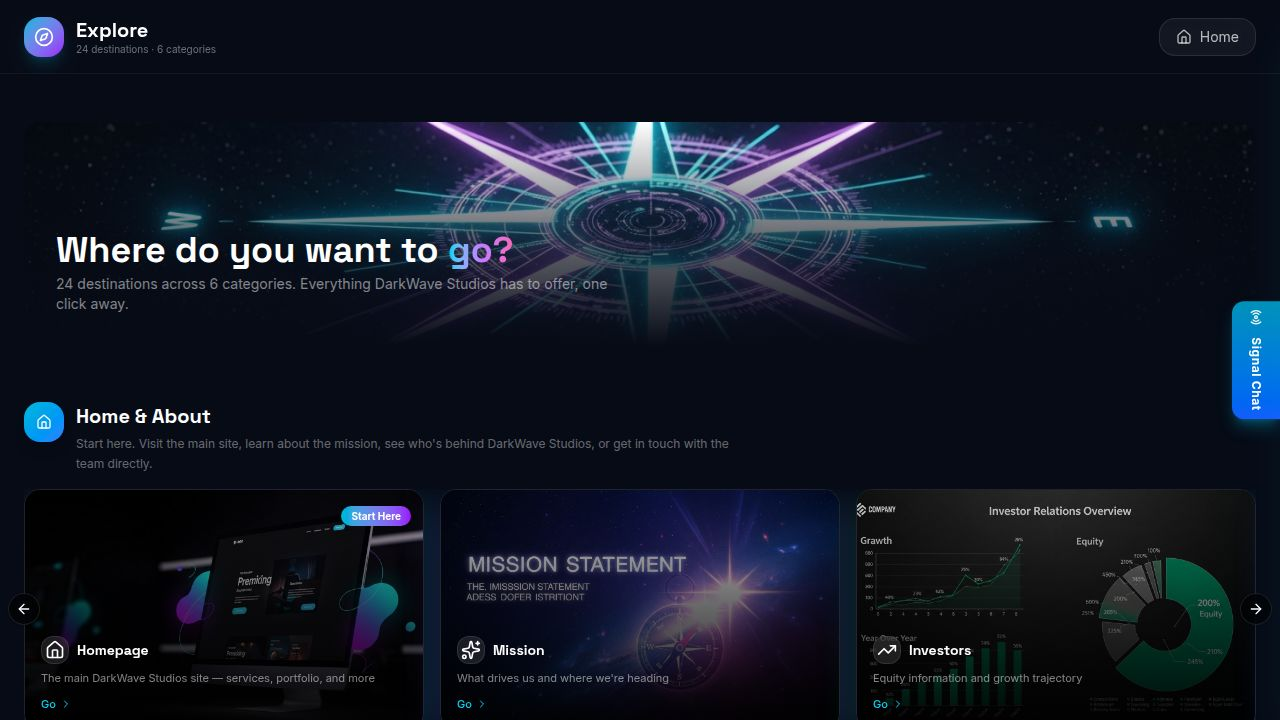
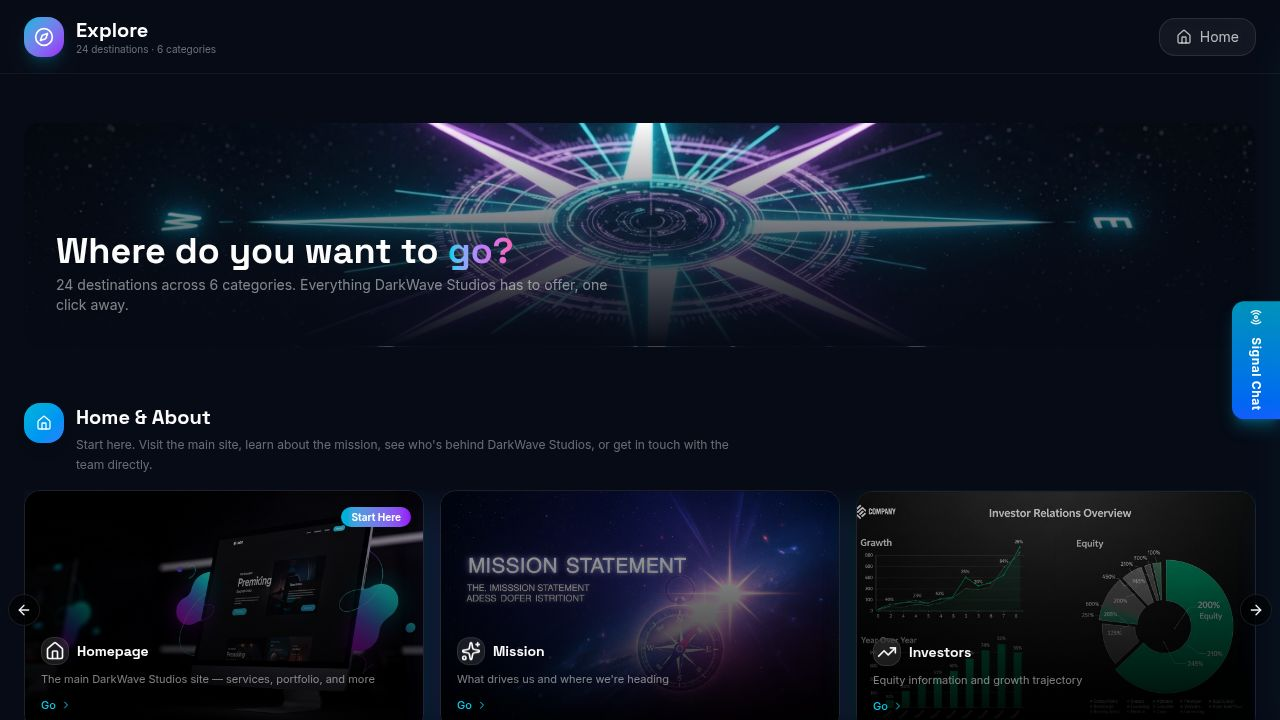
Update ecosystem to reflect 26 connected applications
Adds two new applications ("Guardian Screener" and "Guardian Agent Scanner") to the ecosystem, updating all relevant counts and descriptions from 24 to 26 across various components and pages.

Replit-Commit-Author: Agent
Replit-Commit-Session-Id: fd631e83-bc81-4f88-98c7-1c24e1e757e1
Replit-Commit-Checkpoint-Type: intermediate_checkpoint
Replit-Commit-Event-Id: 8a837312-0393-47f4-bbfb-f8238d8c0c9d
Replit-Commit-Screenshot-Url: https://storage.googleapis.com/screenshot-production-us-central1/58d7295e-4eca-40d3-ac5d-67adee4e19c6/fd631e83-bc81-4f88-98c7-1c24e1e757e1/e12io3n
Replit-Helium-Checkpoint-Created: true

diff --git a/client/src/pages/Developers.tsx b/client/src/pages/Developers.tsx
@@ -410,9 +410,9 @@ export default function Developers() {
                 </div>
                 <div className="grid sm:grid-cols-2 lg:grid-cols-3 gap-4">
                   {[
-                    { name: "TechCrunch", url: "https://techcrunch.com/submit-a-tip/", type: "Tip submission form", pitch: "Full-stack ecosystem with 24 production apps and 1.97M+ lines of code", icon: Zap },
+                    { name: "TechCrunch", url: "https://techcrunch.com/submit-a-tip/", type: "Tip submission form", pitch: "Full-stack ecosystem with 26 production apps and 1.97M+ lines of code", icon: Zap },
                     { name: "Product Hunt", url: "https://www.producthunt.com/posts/new", type: "Product launch platform", pitch: "Launch Trust Layer Hub, Guardian AI, or Pulse individually for maximum visibility", icon: Target },
-                    { name: "Hacker News (Show HN)", url: "https://news.ycombinator.com/submit", type: "Community submission", pitch: "Technical deep-dive on building a 24-app ecosystem as a solo developer", icon: Terminal },
+                    { name: "Hacker News (Show HN)", url: "https://news.ycombinator.com/submit", type: "Community submission", pitch: "Technical deep-dive on building a 26-app ecosystem as a solo developer", icon: Terminal },
                     { name: "IndieHackers", url: "https://www.indiehackers.com", type: "Community + interviews", pitch: "Indie builder story — solo dev building enterprise-scale ecosystem", icon: Users },
                     { name: "BetaList", url: "https://betalist.com/submit", type: "Startup directory", pitch: "Submit new products for early adopter exposure", icon: Sparkles },
                     { name: "Dev.to", url: "https://dev.to", type: "Developer community", pitch: "Technical articles on architecture, Trust Layer, widget marketplace patterns", icon: Code2 },
@@ -444,7 +444,7 @@ export default function Developers() {
                   {[
                     { name: "CoinDesk", url: "https://www.coindesk.com/contact/", type: "Press inquiries", pitch: "Trust Layer L1 blockchain, Guardian AI agent certification, Signal digital asset", icon: Shield },
                     { name: "The Block", url: "https://www.theblock.co/contact", type: "News tips", pitch: "First AI agent certification system for crypto — Guardian AI + Trust Shield", icon: Lock },
-                    { name: "Decrypt", url: "https://decrypt.co/contact", type: "Story pitches", pitch: "Real-world blockchain utility — 24 apps verified through Trust Layer", icon: Boxes },
+                    { name: "Decrypt", url: "https://decrypt.co/contact", type: "Story pitches", pitch: "Real-world blockchain utility — 26 apps verified through Trust Layer", icon: Boxes },
                     { name: "CoinTelegraph", url: "https://cointelegraph.com/press-releases", type: "Press releases", pitch: "Proof-of-Authority L1 with DeFi, NFT marketplace, DAO governance", icon: Globe },
                     { name: "Blockchain News", url: "https://www.the-blockchain.com/submit-press-release/", type: "Press release submission", pitch: "Trust Layer ecosystem — wallet, DEX, bridge, staking, explorer", icon: Zap },
                     { name: "NFT Now", url: "https://nftnow.com", type: "NFT/digital asset coverage", pitch: "Signal asset presale, blockchain-verified widget marketplace", icon: Sparkles },
@@ -506,7 +506,7 @@ export default function Developers() {
                 </div>
                 <div className="grid sm:grid-cols-2 lg:grid-cols-3 gap-4">
                   {[
-                    { name: "SaaStr", url: "https://www.saastr.com", type: "SaaS community + events", pitch: "24-app ecosystem with widget marketplace, subscription model, and AI credits system", icon: TrendingUp },
+                    { name: "SaaStr", url: "https://www.saastr.com", type: "SaaS community + events", pitch: "26-app ecosystem with widget marketplace, subscription model, and AI credits system", icon: TrendingUp },
                     { name: "G2", url: "https://www.g2.com/products/new", type: "Software reviews", pitch: "List PaintPros, ORBIT, and individual products for verified reviews", icon: BarChart3 },
                     { name: "Capterra", url: "https://www.capterra.com/vendors/sign-up", type: "Software directory", pitch: "List trade service tools, staffing software, and real estate platforms", icon: Target },
                     { name: "AppSumo", url: "https://sell.appsumo.com", type: "Lifetime deal marketplace", pitch: "Trust Layer Hub widgets or Pulse API access as a limited-time deal", icon: Zap },
@@ -540,7 +540,7 @@ export default function Developers() {
                       <div className="w-5 h-5 rounded-full bg-primary/20 flex items-center justify-center flex-shrink-0 mt-0.5">
                         <span className="text-[10px] font-bold text-primary">1</span>
                       </div>
-                      <p className="text-sm text-muted-foreground">Lead with the story — solo developer building a 24-app, 1.97M+ line ecosystem is compelling and rare</p>
+                      <p className="text-sm text-muted-foreground">Lead with the story — solo developer building a 26-app, 1.97M+ line ecosystem is compelling and rare</p>
                     </div>
                     <div className="flex items-start gap-2">
                       <div className="w-5 h-5 rounded-full bg-primary/20 flex items-center justify-center flex-shrink-0 mt-0.5">

diff --git a/client/src/pages/Projects.tsx b/client/src/pages/Projects.tsx
@@ -253,7 +253,7 @@ const projects = [
   {
     id: 21,
     title: "Signal Chat",
-    description: "Cross-app community messaging platform for the Trust Layer ecosystem. Real-time WebSocket chat, JWT SSO authentication, channel-based conversations, invite system, and user presence. The social backbone connecting all 24 ecosystem apps.",
+    description: "Cross-app community messaging platform for the Trust Layer ecosystem. Real-time WebSocket chat, JWT SSO authentication, channel-based conversations, invite system, and user presence. The social backbone connecting all 26 ecosystem apps.",
     tech: ["WebSocket", "JWT SSO", "Real-time", "Community"],
     image: signalChatImg,
     gradient: "from-purple-500/20 to-pink-600/20",
@@ -269,6 +269,26 @@ const projects = [
     gradient: "from-violet-500/20 to-purple-600/20",
     url: "https://thevoid.replit.app",
     category: "Wellness"
+  },
+  {
+    id: 26,
+    title: "Guardian Screener",
+    description: "AI-powered DEX screener built for traders who refuse to fly blind. Real-time monitoring across all major decentralized exchanges with smart pattern detection, predictive analytics, rug pull and honeypot risk detection, whale concentration tracking, liquidity lock verification, and 24/7 security alerts. Multi-chain coverage across Solana, Ethereum, Base, BSC, Arbitrum, Polygon, and DarkWave. Part of the dwsc.io codebase.",
+    tech: ["AI Analytics", "Multi-Chain", "Real-time", "PWA"],
+    image: "/projects/guardian-screener.png",
+    gradient: "from-cyan-500/20 to-blue-600/20",
+    url: "https://dwsc.io/guardian-shield",
+    category: "Trading"
+  },
+  {
+    id: 27,
+    title: "Guardian Agent Scanner",
+    description: "AI-powered scanning and analysis engine that evaluates, verifies, and scores autonomous AI agents operating across 13+ blockchain networks. Guardian Score safety ratings, real-time WebSocket data feeds, ML-powered prediction engine, contract address lookup, honeypot and freeze authority detection, whale analysis, quick-trade panel, and category filtering. Part of the dwsc.io codebase.",
+    tech: ["AI Security", "WebSocket", "ML Predictions", "PWA"],
+    image: "/projects/guardian-agent-scanner.png",
+    gradient: "from-cyan-500/20 to-purple-600/20",
+    url: "https://dwsc.io/guardian-scanner",
+    category: "Security"
   }
 ];
 
@@ -276,8 +296,8 @@ export default function Projects() {
   return (
     <div className="min-h-screen bg-background text-foreground">
       <SEOHead
-        title="Portfolio - 24 Web Applications & Ecosystem"
-        description="Explore 24 web applications built by DarkWave Studios. From AI trading platforms to staffing systems, venue operations to blockchain infrastructure - see our work in action."
+        title="Portfolio - 26 Web Applications & Ecosystem"
+        description="Explore 26 web applications built by DarkWave Studios. From AI trading platforms to staffing systems, venue operations to blockchain infrastructure - see our work in action."
         keywords="web development portfolio, live web apps, case studies, AI applications, e-commerce development, SaaS examples, blockchain apps"
         type="website"
         url="https://darkwavestudios.com/projects"
@@ -316,7 +336,7 @@ export default function Projects() {
             Our <span className="gradient-text">Ecosystem</span>
           </h1>
           <p className="text-muted-foreground text-lg max-w-2xl mx-auto" data-testid="text-projects-subtitle">
-            24 live applications powering real businesses. From AI trading platforms to staffing systems, venue operations to blockchain infrastructure.
+            26 live applications powering real businesses. From AI trading platforms to staffing systems, venue operations to blockchain infrastructure.
           </p>
         </div>
 

diff --git a/client/src/pages/Ecosystem.tsx b/client/src/pages/Ecosystem.tsx
@@ -236,6 +236,24 @@ const ecosystemApps: EcosystemApp[] = [
     image: "/projects/the-void.png",
     url: "https://thevoid.replit.app",
     category: "health"
+  },
+  {
+    id: "guardian-screener",
+    name: "Guardian Screener",
+    tagline: "See the Market Before It Sees You",
+    description: "AI-powered DEX screener with real-time monitoring across all major decentralized exchanges. Smart pattern detection, predictive analytics, rug pull and honeypot risk detection, whale concentration tracking, liquidity lock verification, and 24/7 security alerts. Multi-chain coverage across Solana, Ethereum, Base, BSC, Arbitrum, Polygon, and DarkWave. Installable PWA. Part of the dwsc.io codebase.",
+    image: "/projects/guardian-screener.png",
+    url: "https://dwsc.io/guardian-shield",
+    category: "trading"
+  },
+  {
+    id: "guardian-agent-scanner",
+    name: "Guardian Agent Scanner",
+    tagline: "Trust Scores for AI Agents",
+    description: "AI-powered scanning engine that evaluates, verifies, and scores autonomous AI agents across 13+ blockchains. Guardian Score safety ratings, real-time WebSocket feeds, ML-powered predictions, contract address lookup, honeypot and freeze authority detection, whale analysis, quick-trade panel, and category filtering. Installable PWA. Part of the dwsc.io codebase.",
+    image: "/projects/guardian-agent-scanner.png",
+    url: "https://dwsc.io/guardian-scanner",
+    category: "security"
   }
 ];
 
@@ -360,7 +378,7 @@ export default function Ecosystem() {
     <div className="min-h-screen bg-background text-foreground overflow-x-hidden">
       <SEOHead
         title="Ecosystem - DarkWave Studios"
-        description="Explore the complete DarkWave ecosystem. 24 connected applications across 12 production builds spanning trading, business operations, trade services, gaming, and more. Over 1.97 million lines of code."
+        description="Explore the complete DarkWave ecosystem. 26 connected applications across 12 production builds spanning trading, business operations, trade services, gaming, and more. Over 1.97 million lines of code."
         keywords="DarkWave ecosystem, trust layer, blockchain apps, trading platforms, business software"
       />
       <BreadcrumbSchema

diff --git a/client/src/pages/EcosystemMetrics.tsx b/client/src/pages/EcosystemMetrics.tsx
@@ -436,6 +436,32 @@ const ecosystemMetrics: AppMetric[] = [
     gradient: "from-violet-500 to-purple-500",
     status: "Production",
   },
+  {
+    id: "guardian-screener",
+    name: "Guardian Screener",
+    url: "https://dwsc.io/guardian-shield",
+    totalLines: 0,
+    totalFiles: 0,
+    stack: ["React 18", "Vite", "Tailwind CSS 4", "Framer Motion", "PWA", "TypeScript"],
+    breakdown: [],
+    highlights: ["AI Pattern Detection", "Multi-Chain DEX", "Predictive Analytics", "Rug Pull Detection", "Whale Tracking", "24/7 Alerts"],
+    icon: Search,
+    gradient: "from-cyan-500 to-blue-500",
+    status: "Under Development",
+  },
+  {
+    id: "guardian-agent-scanner",
+    name: "Guardian Agent Scanner",
+    url: "https://dwsc.io/guardian-scanner",
+    totalLines: 0,
+    totalFiles: 0,
+    stack: ["React 18", "Vite", "Tailwind CSS 4", "Framer Motion", "WebSocket", "TanStack Query", "PWA", "TypeScript"],
+    breakdown: [],
+    highlights: ["AI Agent Scoring", "Guardian Score", "13+ Chains", "ML Predictions", "Quick-Trade Panel", "Real-time WebSocket"],
+    icon: Shield,
+    gradient: "from-cyan-500 to-purple-500",
+    status: "Production",
+  },
 ];
 
 function AnimatedCounter({ target, duration = 2000, suffix = "" }: { target: number; duration?: number; suffix?: string }) {

diff --git a/client/src/pages/CommandCenter.tsx b/client/src/pages/CommandCenter.tsx
@@ -139,16 +139,16 @@ const categories: CommandCategory[] = [
     title: "Ecosystem & Platform",
     icon: <Layers className="size-4" />,
     gradient: "from-emerald-500 to-teal-500",
-    description: "The full DarkWave ecosystem. Browse all 24 connected applications, review codebase metrics, manage the widget marketplace, and access developer documentation.",
+    description: "The full DarkWave ecosystem. Browse all 26 connected applications, review codebase metrics, manage the widget marketplace, and access developer documentation.",
     cards: [
       {
         label: "Ecosystem",
-        description: "All 24 connected applications with carousels",
+        description: "All 26 connected applications with carousels",
         href: "/ecosystem",
         icon: <Globe className="size-5" />,
         image: "/command/ecosystem.png",
         glowColor: "shadow-indigo-500/20",
-        badge: "24 Apps",
+        badge: "26 Apps",
         featured: true,
       },
       {

diff --git a/client/src/pages/Explore.tsx b/client/src/pages/Explore.tsx
@@ -141,16 +141,16 @@ const categories: ExploreCategory[] = [
     title: "Platform & Ecosystem",
     icon: <Globe className="size-4" />,
     gradient: "from-emerald-500 to-teal-500",
-    description: "Explore the full DarkWave ecosystem — 24 interconnected apps, a portfolio of live projects, and detailed codebase metrics across 1.97M+ lines of code.",
+    description: "Explore the full DarkWave ecosystem — 26 interconnected apps, a portfolio of live projects, and detailed codebase metrics across 1.97M+ lines of code.",
     cards: [
       {
         label: "Ecosystem",
-        description: "All 24 connected applications in one view",
+        description: "All 26 connected applications in one view",
         href: "/ecosystem",
         icon: <Globe className="size-5" />,
         image: "/command/ecosystem.png",
         glowColor: "shadow-indigo-500/20",
-        badge: "24 Apps",
+        badge: "26 Apps",
         featured: true,
       },
       {

diff --git a/client/src/pages/TrustLayerHub.tsx b/client/src/pages/TrustLayerHub.tsx
@@ -2218,7 +2218,7 @@ export default function TrustLayerHub() {
                       }`}>⚡</div>
                       <div>
                         <div className={`text-sm font-bold ${widgetTheme === "trustlayer" ? "text-cyan-100" : widgetTheme === "dark" ? "text-white" : "text-gray-900"}`}>Trust Layer Ecosystem</div>
-                        <div className={`text-[10px] ${widgetTheme === "trustlayer" ? "text-cyan-400/70" : widgetTheme === "dark" ? "text-green-400" : "text-green-500"}`}>● 142 online across 24 apps</div>
+                        <div className={`text-[10px] ${widgetTheme === "trustlayer" ? "text-cyan-400/70" : widgetTheme === "dark" ? "text-green-400" : "text-green-500"}`}>● 142 online across 26 apps</div>
                       </div>
                     </div>
                     <div className="flex gap-1">

diff --git a/client/src/components/SignalPresaleBanner.tsx b/client/src/components/SignalPresaleBanner.tsx
@@ -80,7 +80,7 @@ export function SignalPresaleBanner({ variant = "full", className = "" }: Signal
               Own a Piece of the <span className="gradient-text">Trust Layer</span>
             </h3>
             <p className="text-sm text-muted-foreground mb-4 max-w-xl">
-              Signal is the native digital asset powering a 24-app ecosystem with 1.97M+ lines of production code. 
+              Signal is the native digital asset powering a 26-app ecosystem with 1.97M+ lines of production code. 
               Join early at $0.001/SIG before the price increases.
             </p>
             <div className="grid grid-cols-2 sm:grid-cols-4 gap-3 mb-4">
